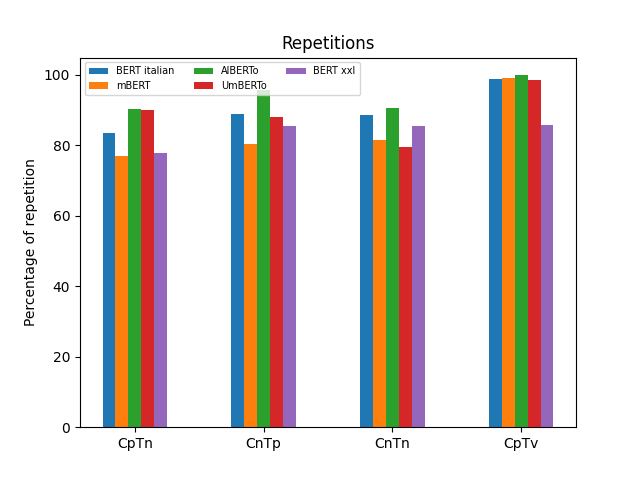
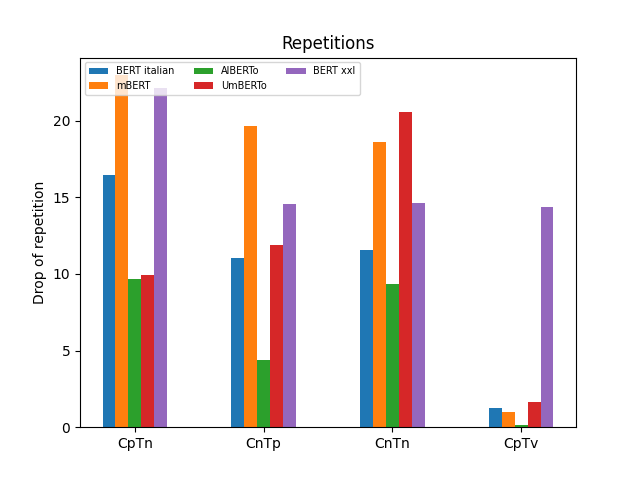
plots

diff --git a/2nd_exp/plot.py b/2nd_exp/plot.py
@@ -17,10 +17,15 @@ bar4 = [i+w for i in bar3]
 bar5 = [i+w for i in bar4]
 
 bert_it = [83.55, 88.97, 88.42, 98.72]
+bert_it = [100-x for x in bert_it]
 mbert = [77.03, 80.34, 81.37, 99.03]
+mbert = [100-x for x in mbert]
 alberto = [90.33, 95.64, 90.66, 99.85]
+alberto= [100-x for x in alberto]
 umberto = [90.09, 88.13, 79.42, 98.35]
+umberto = [100-x for x in umberto]
 bertxxl = [77.87, 85.46, 85.40, 85.66]
+bertxxl = [100-x for x in bertxxl]
 
 pyplot.bar(bar1, bert_it,w ,label = "BERT italian")
 pyplot.bar(bar2, mbert, w,label = "mBERT")
@@ -28,7 +33,7 @@ pyplot.bar(bar3, alberto,w ,label = "AlBERTo")
 pyplot.bar(bar4, umberto,w ,label = "UmBERTo")
 pyplot.bar(bar5, bertxxl,w ,label = "BERT xxl")
 pyplot.xticks(bar3, contxt)
-pyplot.ylabel("Percentage of repetition")
+pyplot.ylabel("Drop of repetition")
 
 matplotlib.pyplot.title("Repetitions")
 pyplot.legend(loc='upper left', ncols=3, fontsize=7)
